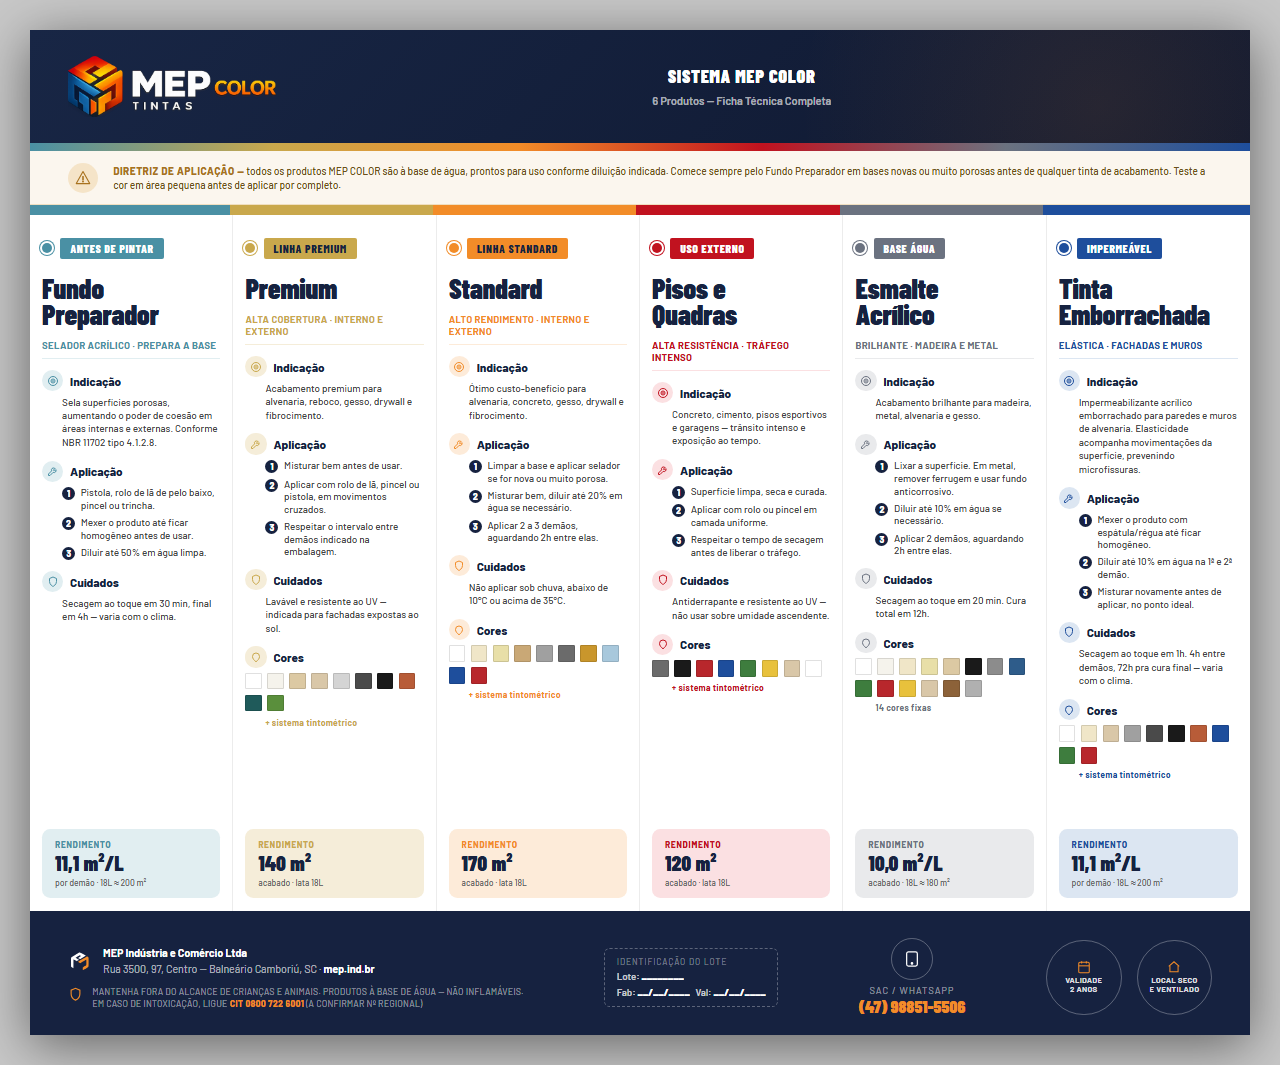
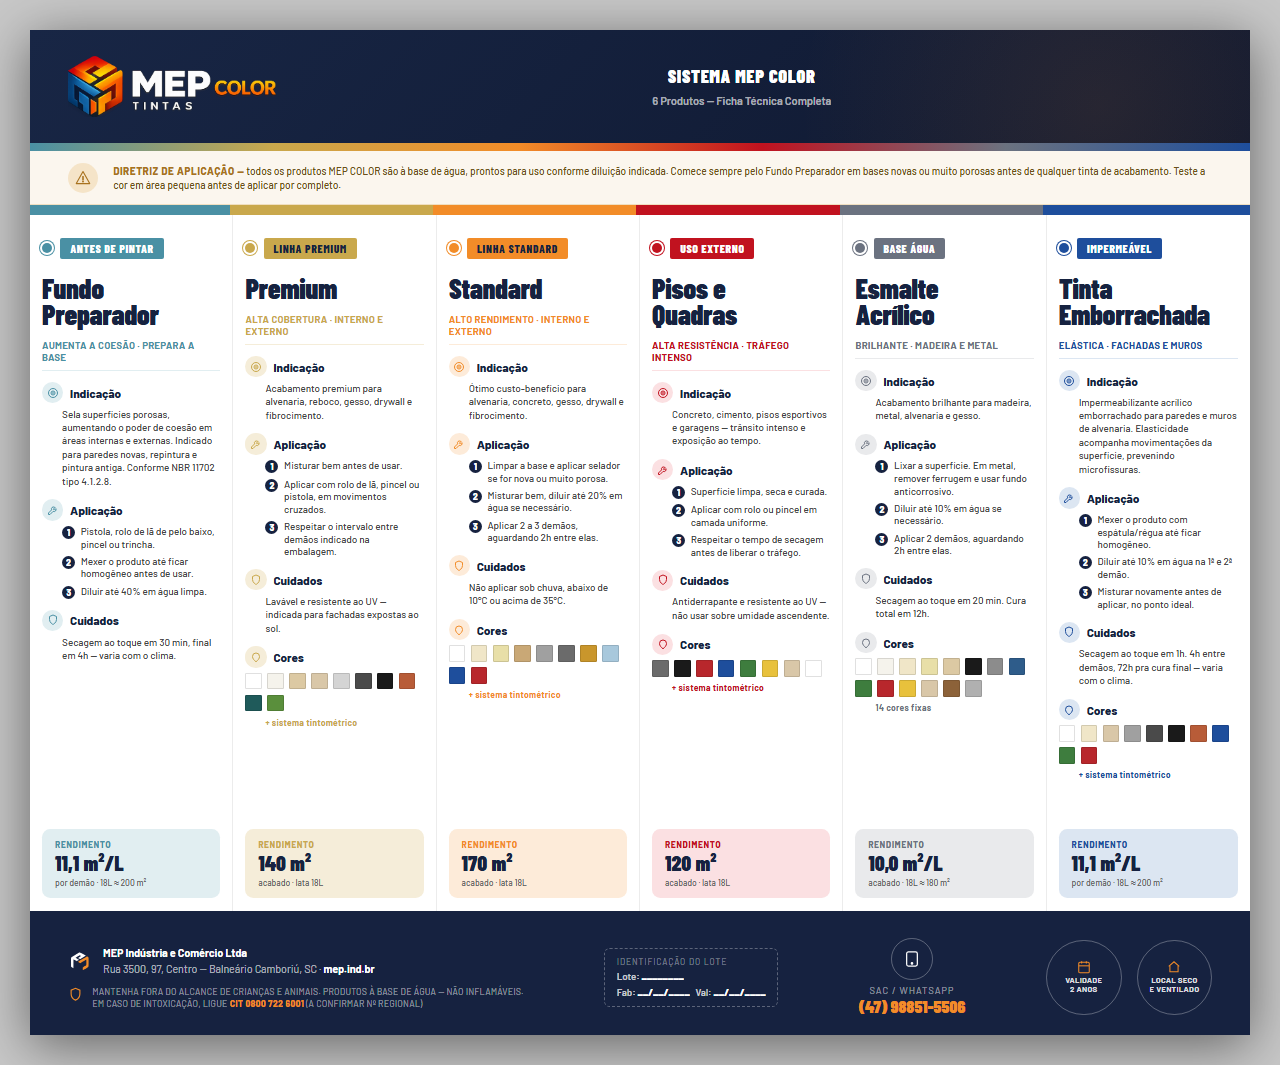
Corrige Fundo Preparador: remove termo Selador Acrilico, ajusta diluicao pra 40% e indicacoes de uso

Changed region(s): [[0.0312, 0.3099, 0.1562, 0.6197]]

diff --git a/marketing/conteudo/rotulo-mep-color-18l-2026-06-27/rotulo-verso-sistema.html b/marketing/conteudo/rotulo-mep-color-18l-2026-06-27/rotulo-verso-sistema.html
@@ -237,14 +237,14 @@ body { margin:0; padding:30px; background:#c8c8c8; display:flex; justify-content
         <div class="col-tag">Antes de Pintar</div>
       </div>
       <div class="col-title">Fundo<br>Preparador</div>
-      <div class="col-etapa">Selador acrílico · Prepara a base</div>
+      <div class="col-etapa">Aumenta a coesão · Prepara a base</div>
 
       <div class="sec">
         <div class="sec-head">
           <div class="sec-icon-wrap"><svg class="sec-icon" viewBox="0 0 24 24" fill="none" stroke="currentColor" stroke-width="2"><circle cx="12" cy="12" r="9"/><circle cx="12" cy="12" r="4"/><circle cx="12" cy="12" r="0.8" fill="currentColor"/></svg></div>
           <div class="sec-title">Indicação</div>
         </div>
-        <div class="sec-body">Sela superfícies porosas, aumentando o poder de coesão em áreas internas e externas. Conforme NBR 11702 tipo 4.1.2.8.</div>
+        <div class="sec-body">Sela superfícies porosas, aumentando o poder de coesão em áreas internas e externas. Indicado para paredes novas, repintura e pintura antiga. Conforme NBR 11702 tipo 4.1.2.8.</div>
       </div>
 
       <div class="sec">
@@ -254,7 +254,7 @@ body { margin:0; padding:30px; background:#c8c8c8; display:flex; justify-content
         </div>
         <div class="passo"><div class="passo-num">1</div><div class="passo-txt">Pistola, rolo de lã de pelo baixo, pincel ou trincha.</div></div>
         <div class="passo"><div class="passo-num">2</div><div class="passo-txt">Mexer o produto até ficar homogêneo antes de usar.</div></div>
-        <div class="passo"><div class="passo-num">3</div><div class="passo-txt">Diluir até 50% em água limpa.</div></div>
+        <div class="passo"><div class="passo-num">3</div><div class="passo-txt">Diluir até 40% em água limpa.</div></div>
       </div>
 
       <div class="sec">
